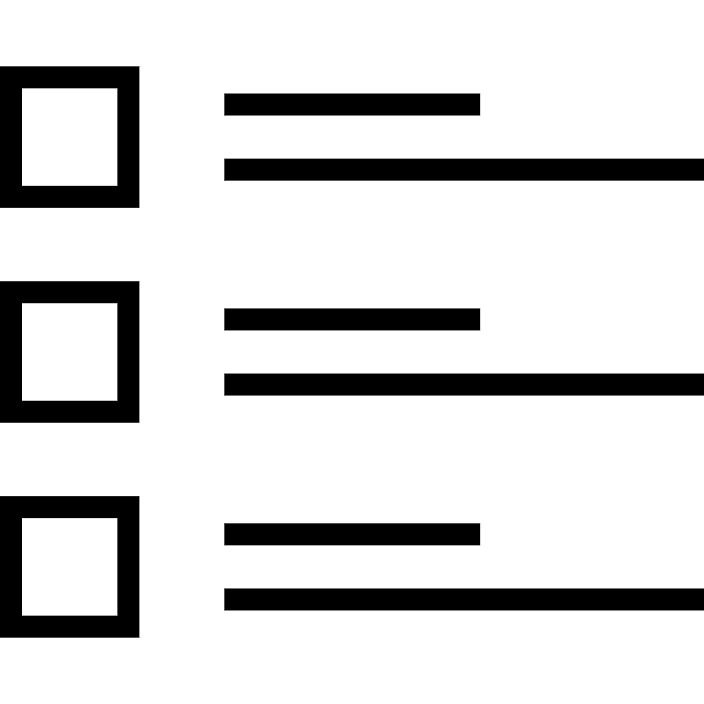
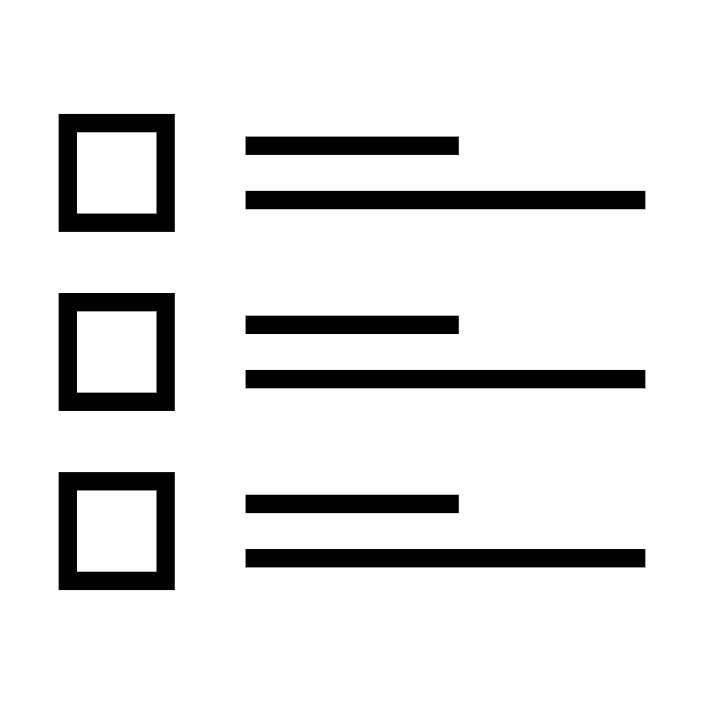
added prefix

diff --git a/src/Kylan1940/OnlineUI/Main.php b/src/Kylan1940/OnlineUI/Main.php
@@ -12,7 +12,8 @@ use Kylan1940\OnlineUI\Form\{Form, SimpleForm};
 
 class Main extends PluginBase implements Listener{
 	
-	const CONFIG_VERSION = 2;
+	const CONFIG_VERSION = 3;
+	const PREFIX = "prefix";
 	
 	public function onEnable() : void {
 	      $this->updateConfig();
@@ -35,12 +36,19 @@ class Main extends PluginBase implements Listener{
   }
 	
 	public function onCommand(CommandSender $sender, Command $cmd, string $label, array $args): bool{
+	  $prefix = $this->getConfig()->get(self::PREFIX);
 	  if ($sender instanceof Player) {
 	    if($cmd->getName() == "online"){
 	      $this->online($sender);
 	  }
 	    } else {
-	      $sender->sendMessage($this->getConfig()->get("only-ingame"));
+	      if($this->getConfig()->getNested('console-execute') == "message"){
+	        $sender->sendMessage($prefix.$this->getConfig()->getNested('console.message'));
+	      }
+	      elseif($this->getConfig()->getNested('console-execute') == "command"){
+	        $command = $this->getConfig()->getNested('console.command');
+          $this->getServer()->dispatchCommand($sender, $command);
+	      }
 	    }
 		return true;
 	}
@@ -51,8 +59,8 @@ class Main extends PluginBase implements Listener{
             return true;
         }
     });
-    $form->setTitle($this->getConfig()->get("title"));
-    $form->setContent($this->getConfig()->get("content"));
+    $form->setTitle($prefix.$this->getConfig()->getNested('ui.title'));
+    $form->setContent($prefix.$this->getConfig()->getNested('ui.content'));
     foreach($this->getServer()->getOnlinePlayers() as $online){
         $form->addButton($online->getName(), -1, "", $online->getName());
     }

diff --git a/README.md b/README.md
@@ -4,8 +4,10 @@
 # Description
 Check who are in the server with UI, for PocketMine-MP. If you are have a question, please make a [issues](https://github.com/Kylan1940/OnlineUI/issues/new)
 
-# Changelogs [3.0.0]
->- Support PM5
+# Changelogs [3.1.0]
+>- Custom OnlyInGame command
+>- Added prefix
+>- Changed icon
 
 # Features
 >- With UI
